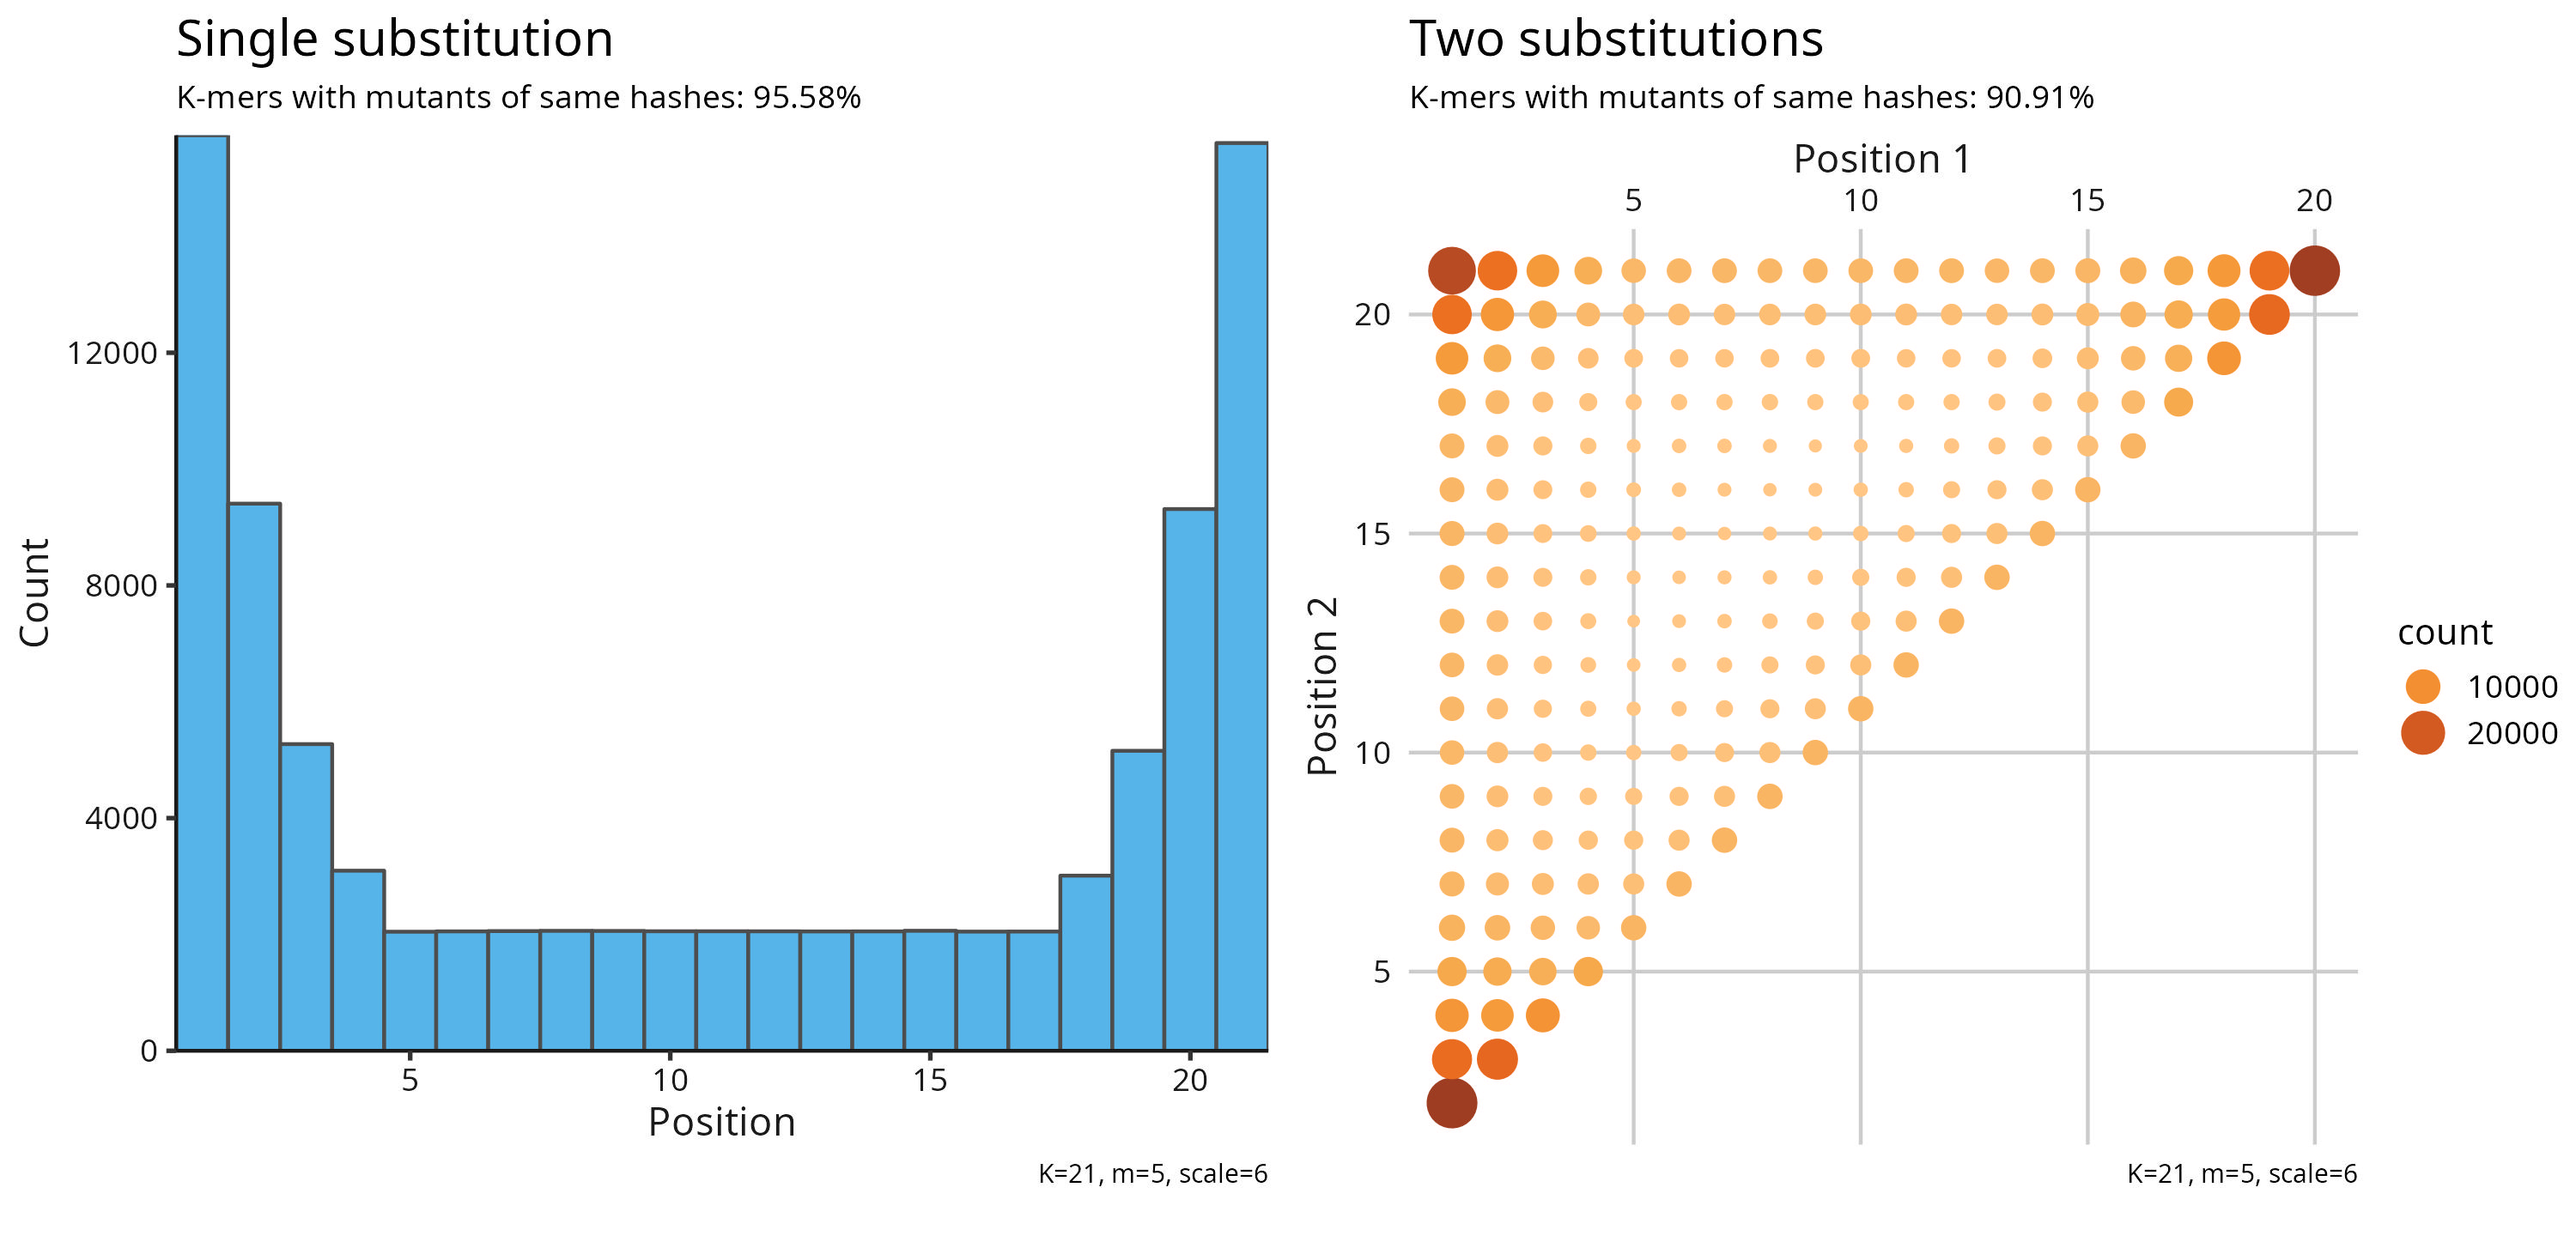
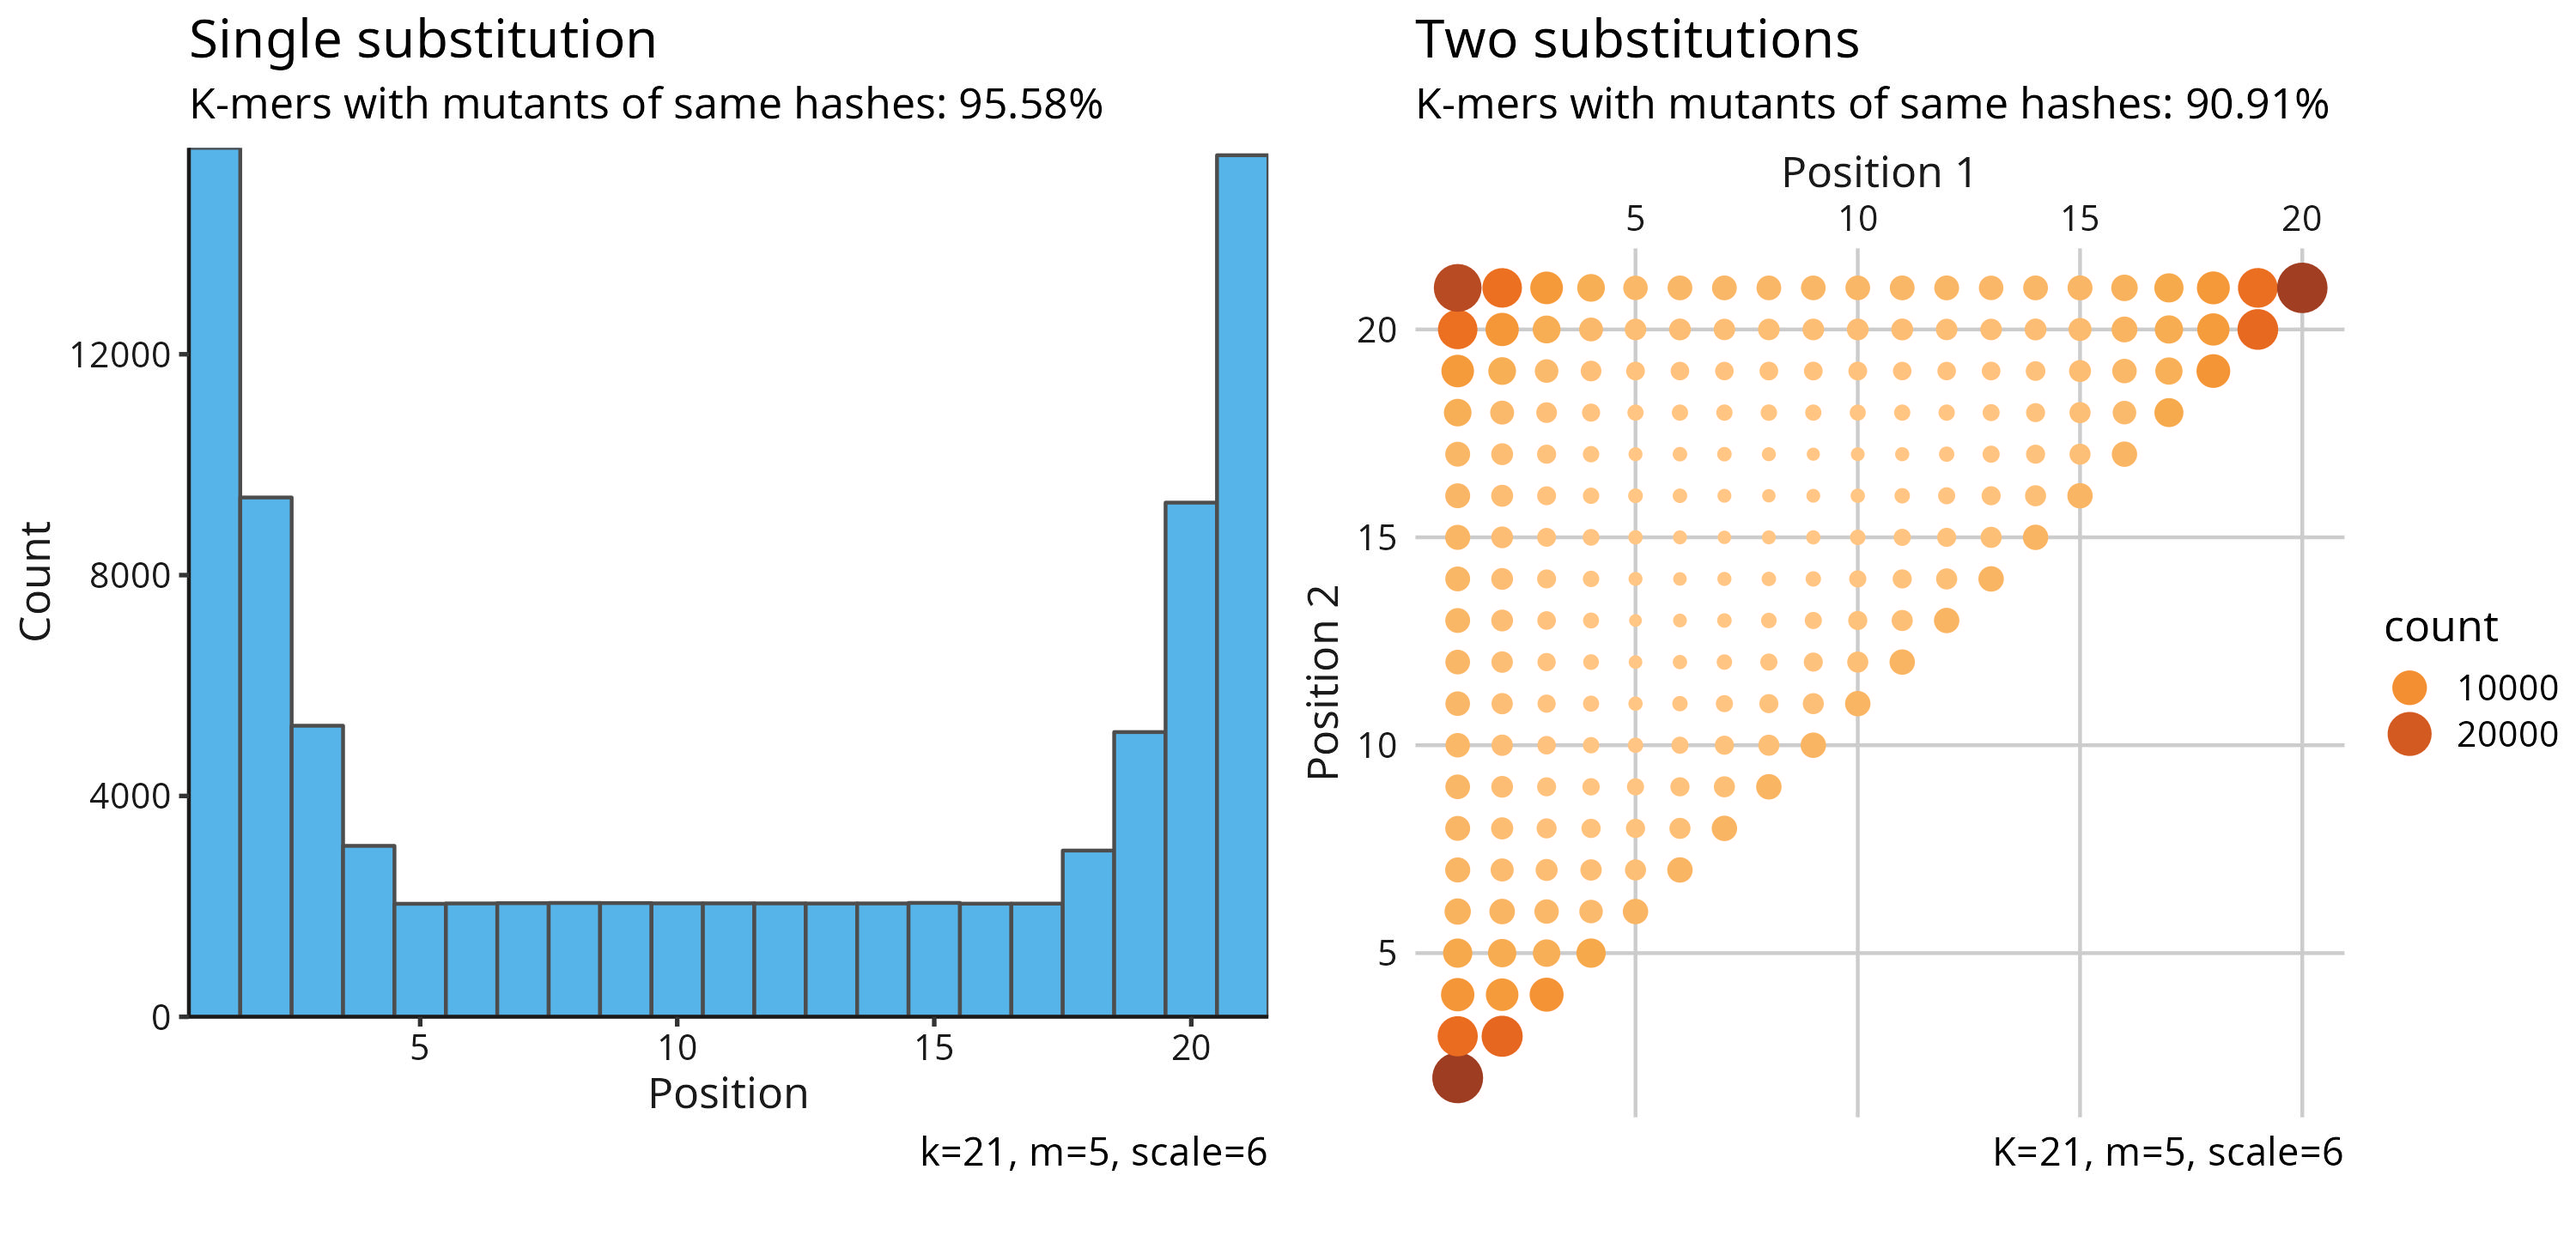
change text size in plot

diff --git a/README.md b/README.md
@@ -11,7 +11,9 @@ Reference:
 
 ### Distribution of subsitutions which result in same hashes.
 
+![](t.fna.simhash-k21-m5-s5-n1.tsv.gz.jpg)
 ![](t.fna.simhash-k21-m5-s6-n1.tsv.gz.jpg)
+![](t.fna.simhash-k21-m5-s7-n1.tsv.gz.jpg)
 
 ### Steps
 
